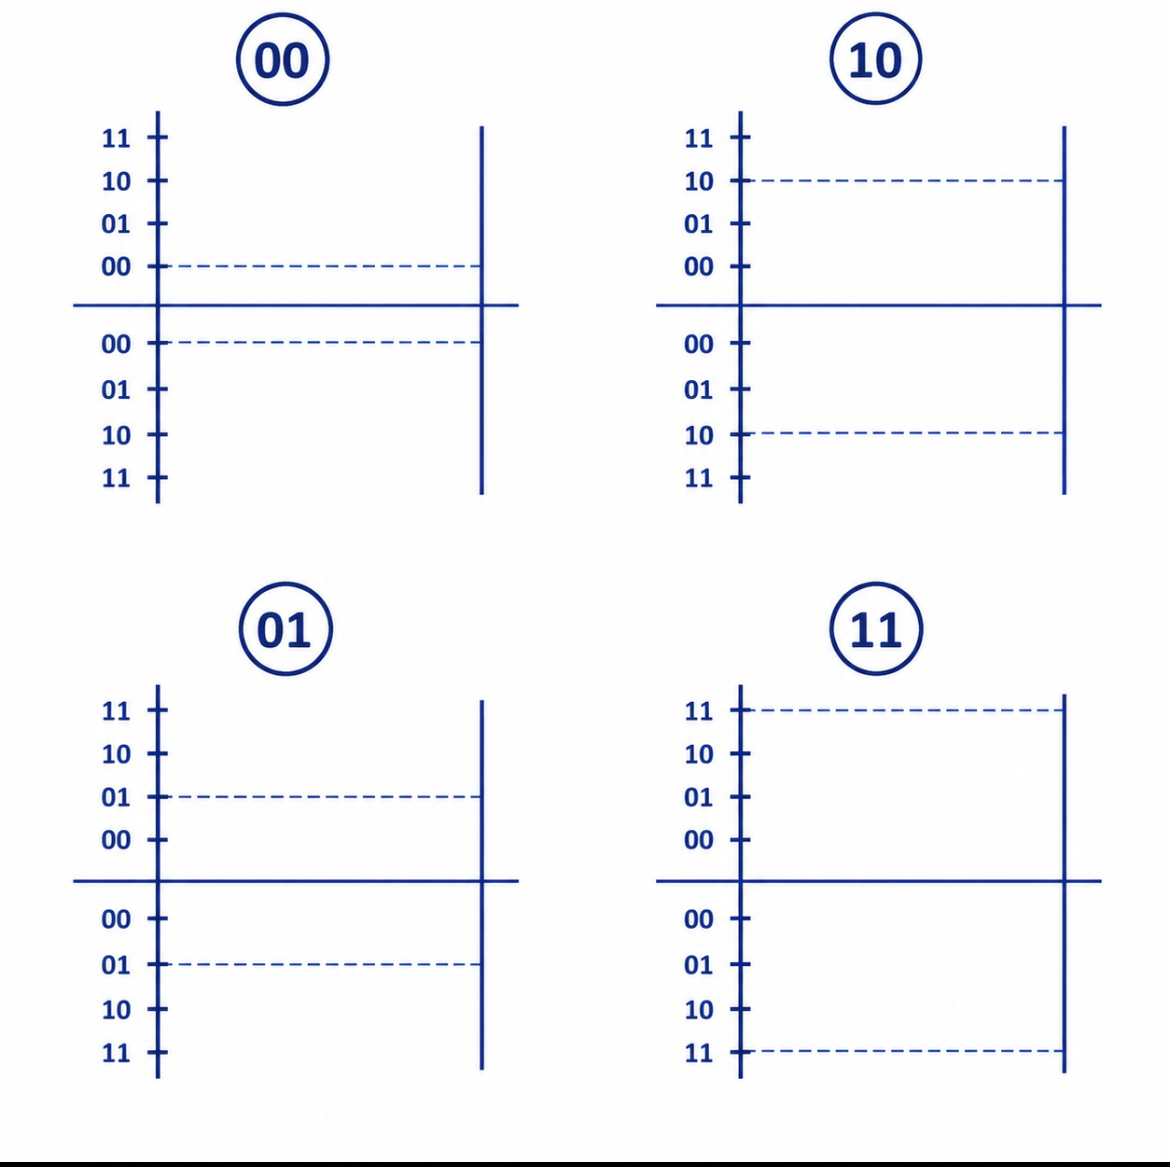
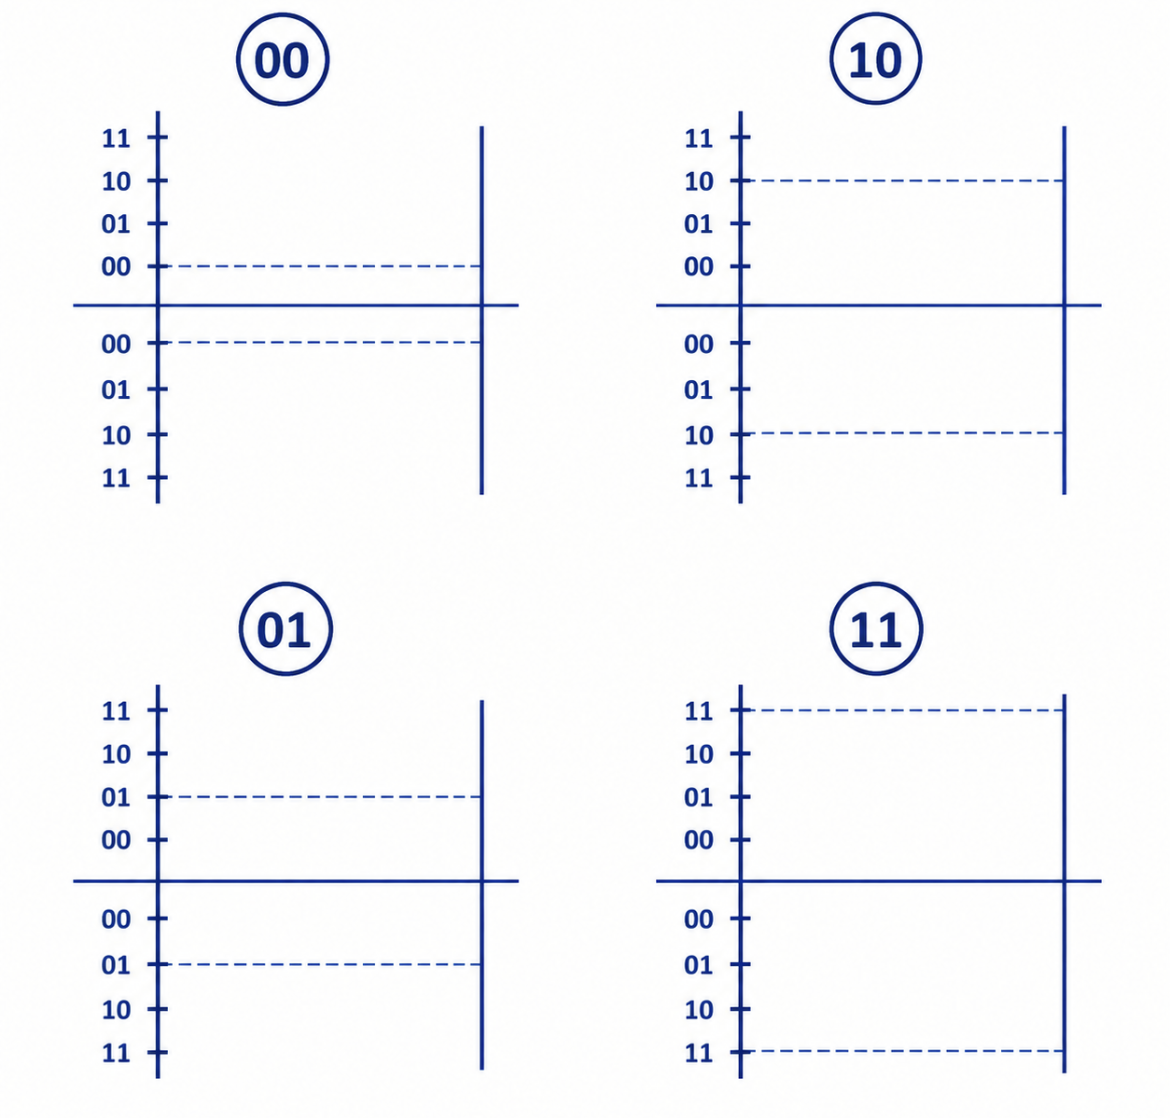
vsdfds

diff --git a/doc/sareak.md b/doc/sareak.md
@@ -83,7 +83,7 @@ Pasahitza ondo dagoen egiaztatzeko konprobaketa egin dugu. Hasierako bit-kateari
 
 ![Mi foto](img/Sareak/IMG_9361.jpg)
 
-# PSK(2),ASK(2),FSK(2)
+## PSK(2),ASK(2),FSK(2)
 
 PSK(2),ASK(2) eta FSK(2) egin baino lehen guk aukeratutako pasahitza bitarrera aldatu dugu, behin bitarrean izan dugunean zatiketa egin dugu CRC6 formularekin:
 
